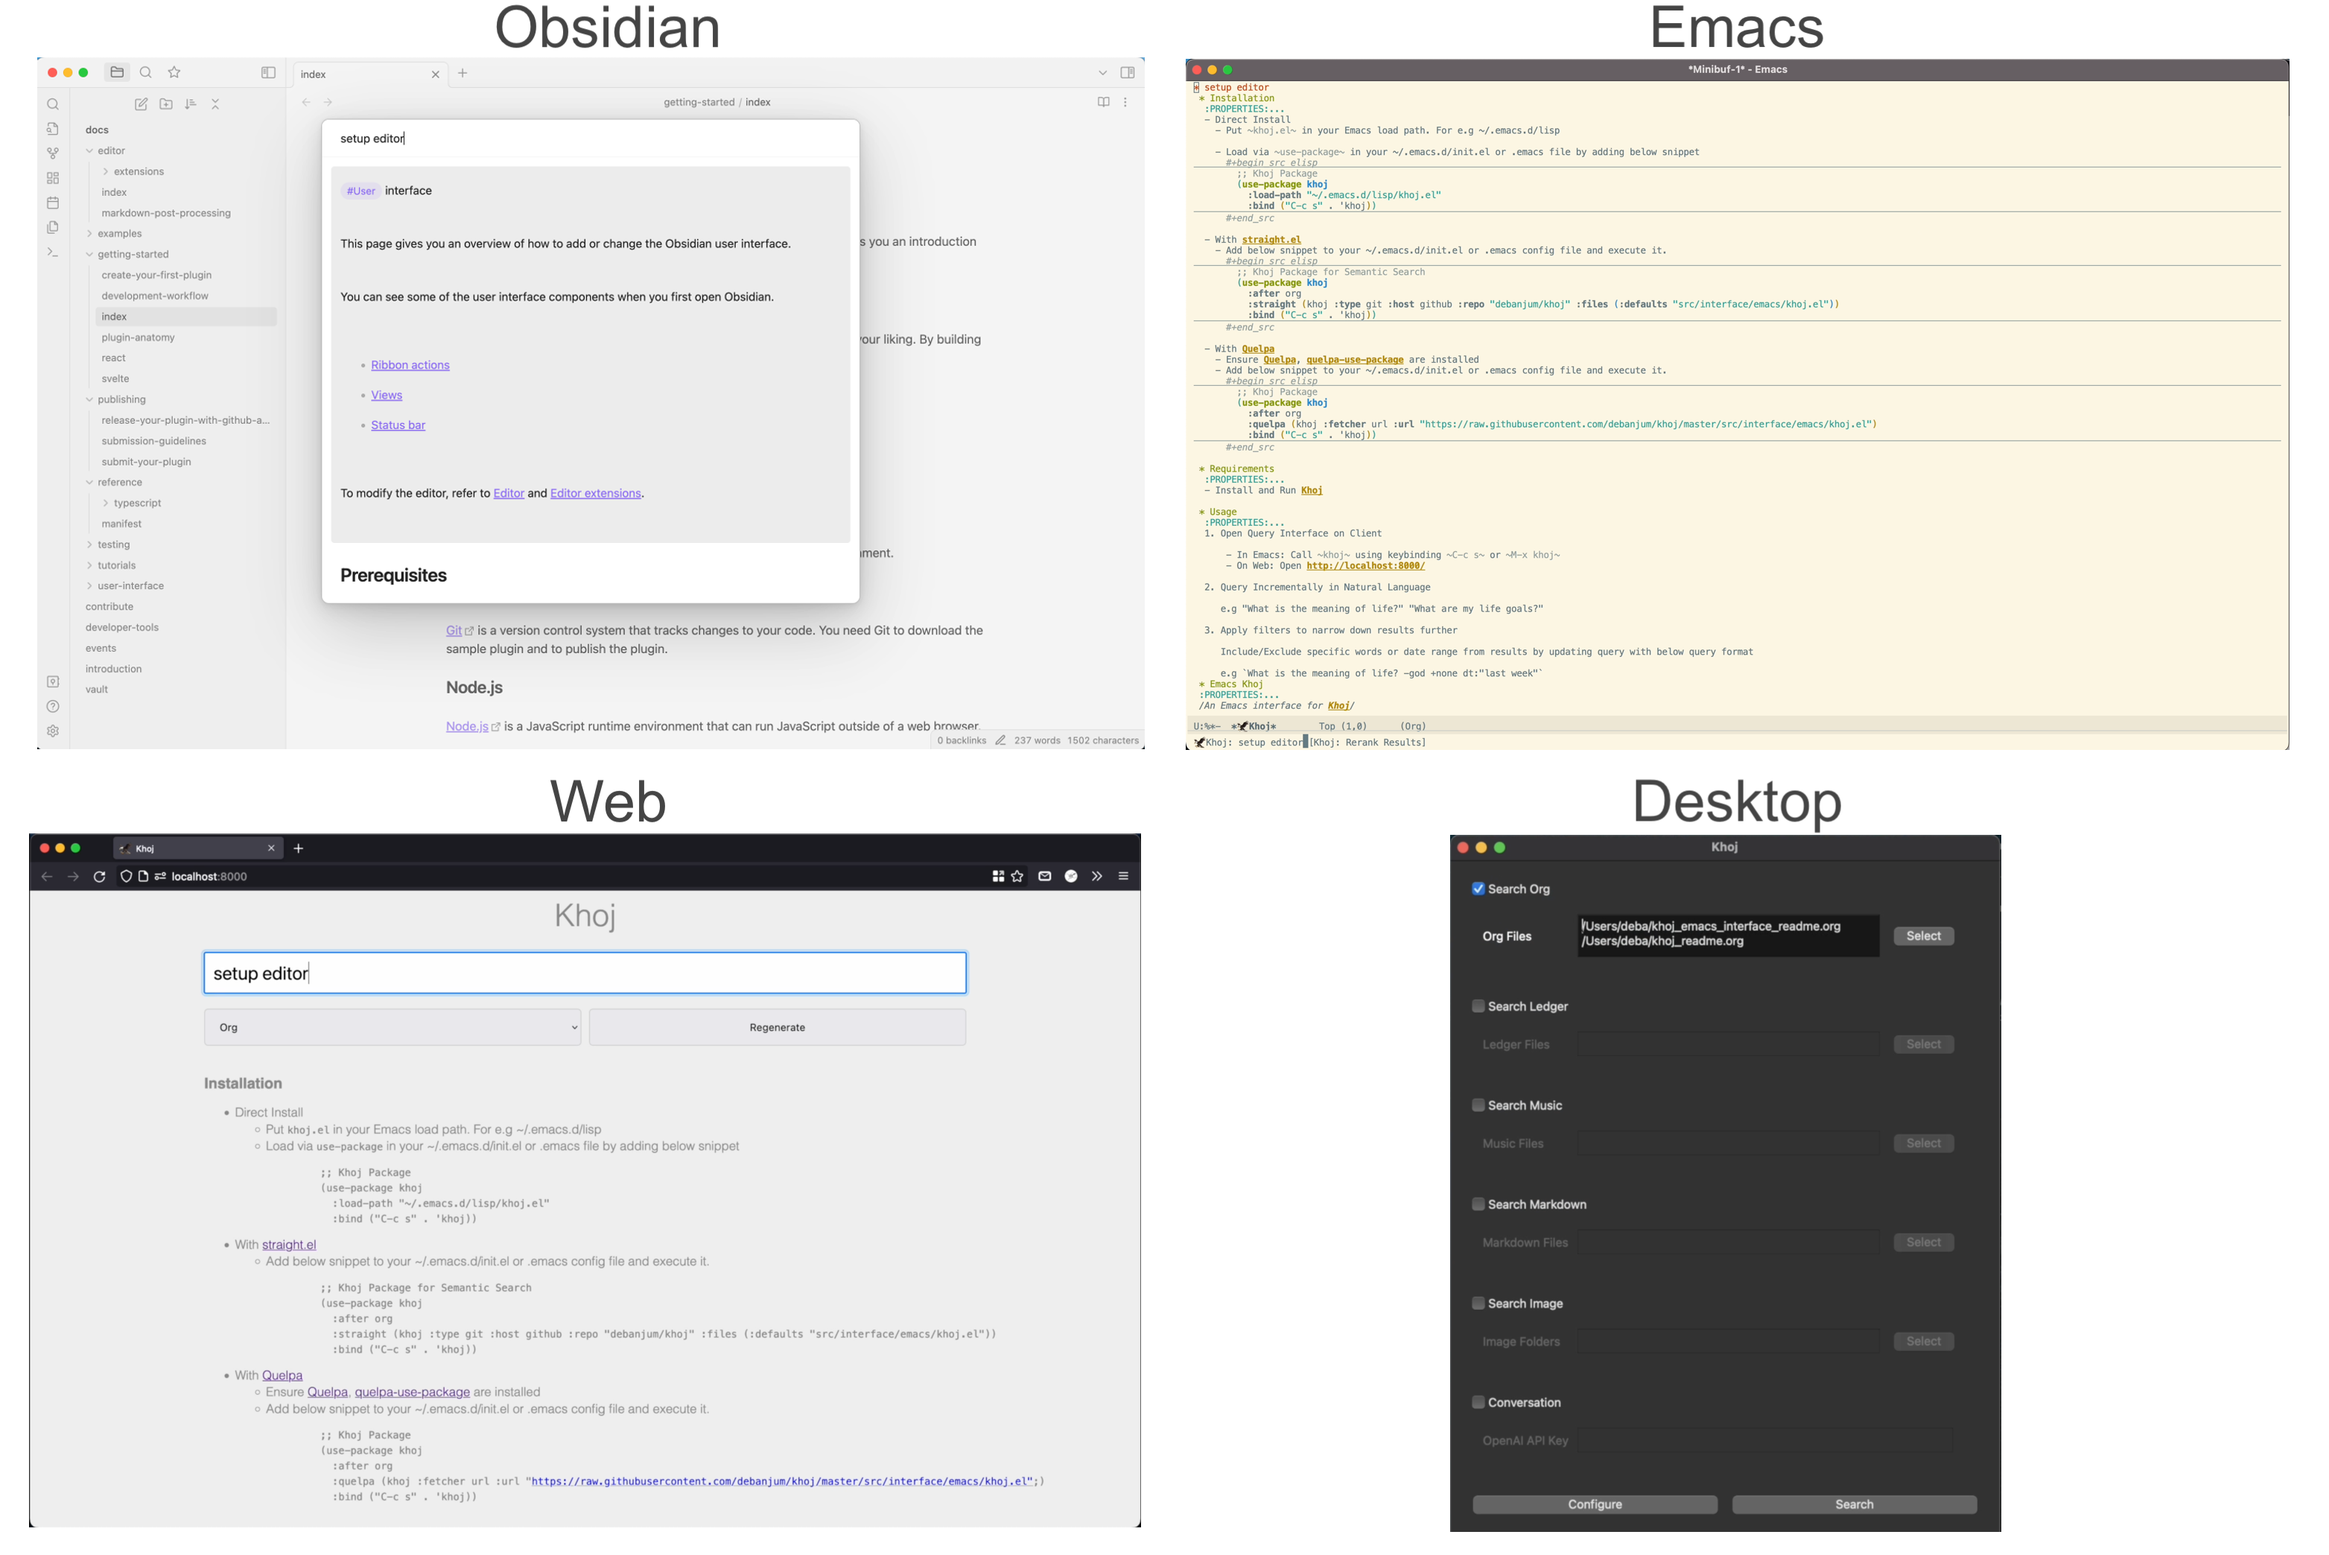
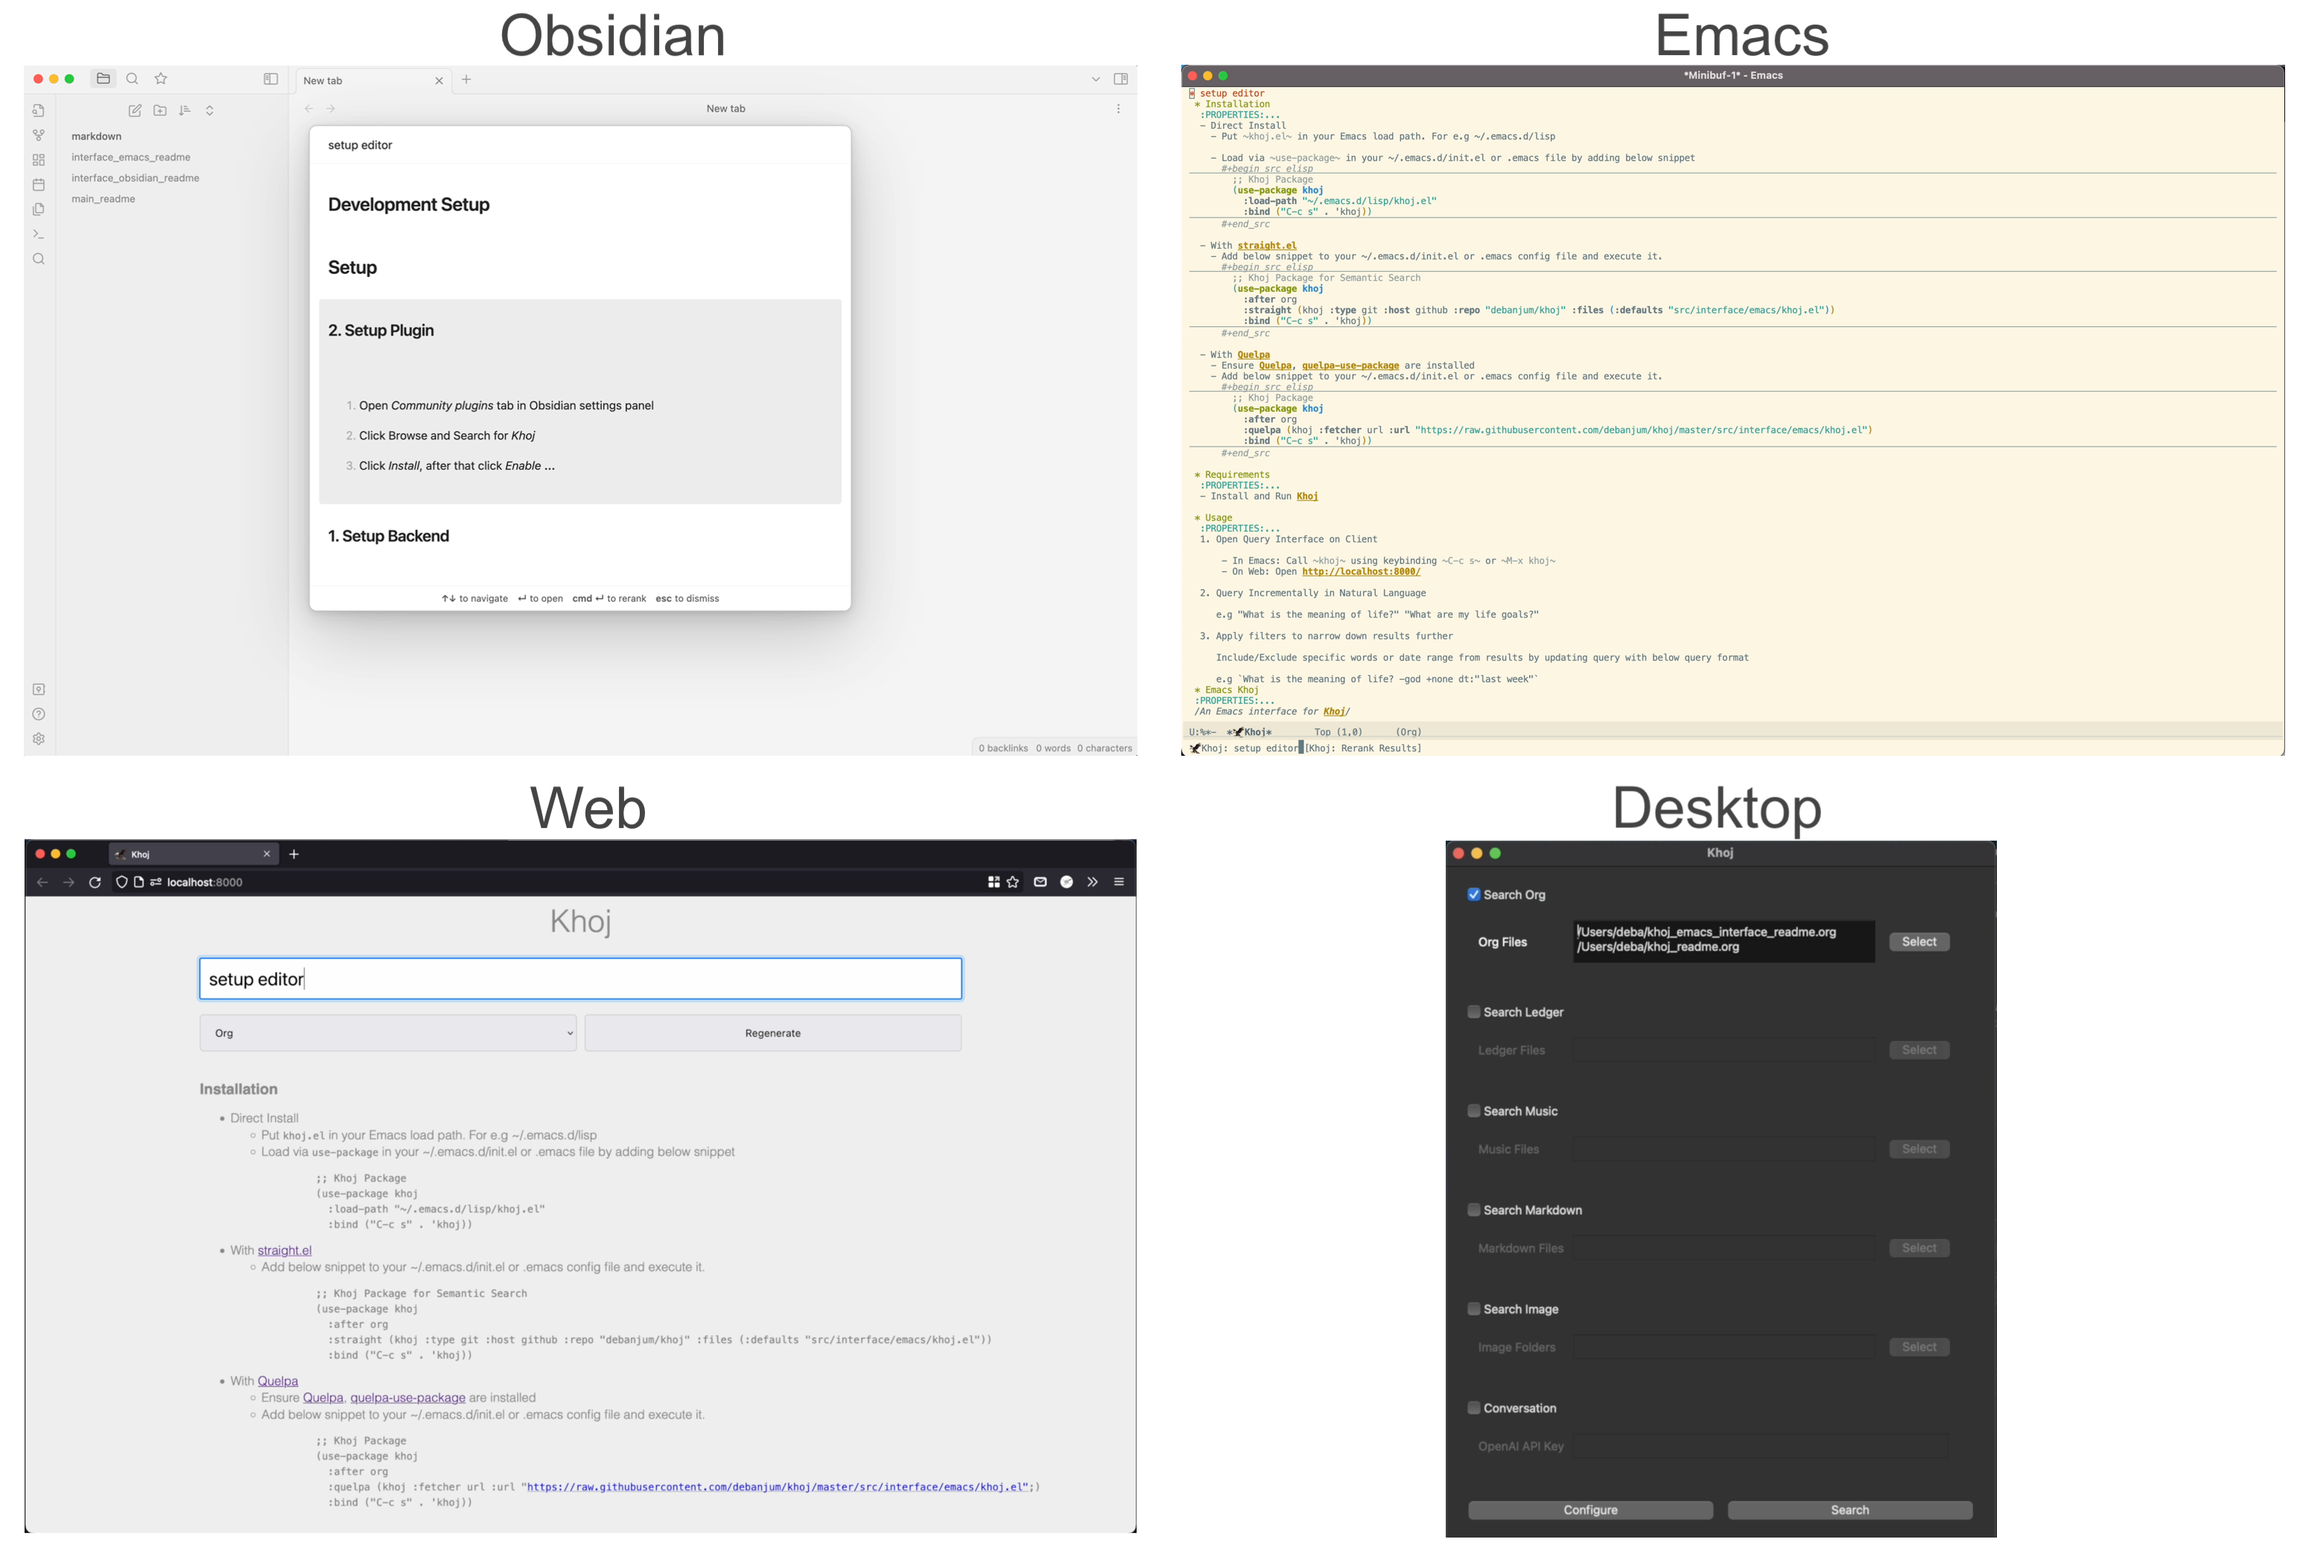
Update Ridge on Obsidian screenshots in Main and Plugin Readme
- Screenshot querying "Setup Editor" on test vault with Ridge Readmes
- New features showcase:
  - information keybindings, rerank keybinding at bottom of modal
  - fixed top level headings in search results
  - search results snipped if greater than N words

diff --git a/src/interface/obsidian/README.md b/src/interface/obsidian/README.md
@@ -40,7 +40,7 @@ https://user-images.githubusercontent.com/6413477/210486007-36ee3407-e6aa-4185-8
 </details>
 
 ### Interface
-![](https://github.com/debanjum/ridge/blob/master/src/interface/obsidian/docs/ridge_obsidian_screenshot_0.1.0.png)
+![](https://github.com/debanjum/ridge/blob/master/src/interface/obsidian/docs/ridge_on_obsidian_0.2.5.png?)
 
 ## Setup
 ### 1. Setup Backend
